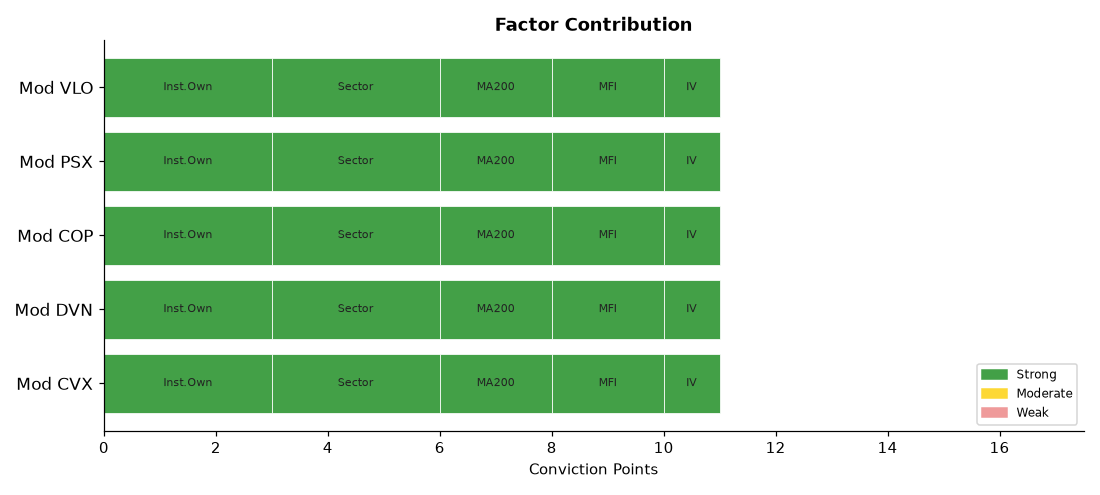
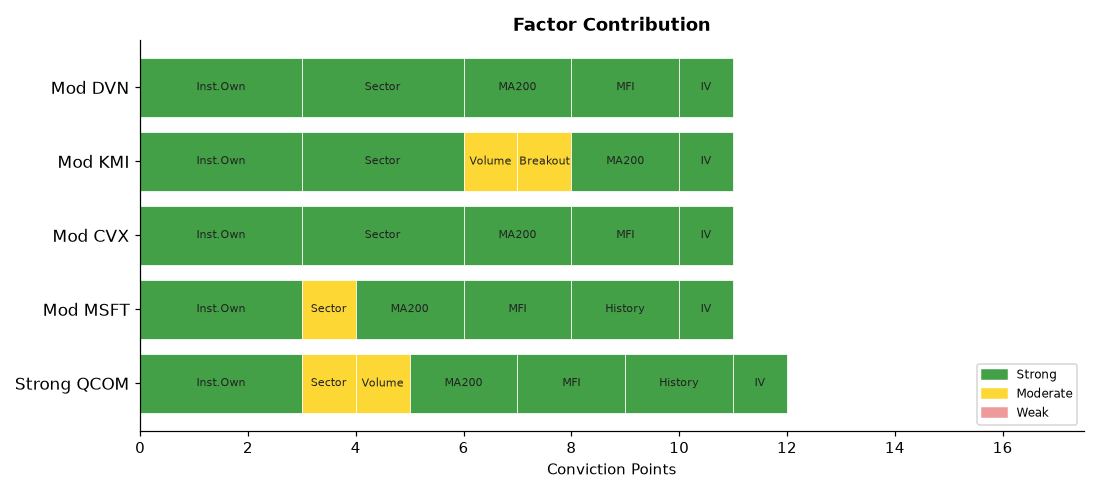
deploy: b7fadf5b06deb90e7ebb92f278722414bdd9750d

diff --git a/index.html b/index.html
@@ -4,7 +4,7 @@
   <meta charset="UTF-8">
   <meta name="viewport" content="width=device-width,initial-scale=1">
   <meta http-equiv="Cache-Control" content="no-cache,no-store,must-revalidate">
-  <title>Stock Breakout Screener — 2026-09-08 19:48</title>
+  <title>Stock Breakout Screener — 2026-09-08 21:31</title>
   <style>
     *{box-sizing:border-box;margin:0;padding:0}
     body{font-family:'Segoe UI',Arial,sans-serif;background:#f0f2f5;
@@ -34,20 +34,20 @@
 
 <div class="hdr">
   <h1>📈 Stock Breakout Screener</h1>
-  <p>Updated: 2026-09-08 19:48 UTC &nbsp;·&nbsp; Phase: Regular Market Hours &nbsp;·&nbsp;
+  <p>Updated: 2026-09-08 21:31 UTC &nbsp;·&nbsp; Phase: After-Hours (4:00–8:00 PM ET) &nbsp;·&nbsp;
      129 stocks screened &nbsp;·&nbsp; Top 5 by conviction score</p>
 </div>
 
 <div class="card">
   <strong style="font-size:14px">Market Sentiment: 🐻 Bearish</strong>
   <div class="bar-wrap" style="margin-top:10px">
-    <div style="width:0%;background:#43a047"></div>
-    <div style="width:8%;background:#fdd835"></div>
+    <div style="width:1%;background:#43a047"></div>
+    <div style="width:7%;background:#fdd835"></div>
     <div style="width:92%;background:#e53935"></div>
   </div>
   <div style="font-size:12px;color:#555">
-    🟢 Strong 0% &nbsp;
-    🟡 Moderate 8% &nbsp;
+    🟢 Strong 1% &nbsp;
+    🟡 Moderate 7% &nbsp;
     🔴 Weak 92%
   </div>
 </div>
@@ -59,17 +59,17 @@
                     box-shadow:0 2px 6px rgba(0,0,0,.07)">
           <div style="display:flex;align-items:center;gap:10px;
                       flex-wrap:wrap;margin-bottom:10px">
-            <span style="font-size:22px">🟡</span>
-            <span style="font-size:19px;font-weight:700">1. CVX</span>
-            <span style="font-size:12px;color:#666">Energy</span>
+            <span style="font-size:22px">🟢</span>
+            <span style="font-size:19px;font-weight:700">1. QCOM</span>
+            <span style="font-size:12px;color:#666">Technology</span>
             <span style="margin-left:auto;background:#1a237e;color:#fff;
                          padding:3px 12px;border-radius:12px;
                          font-size:13px;font-weight:600">
-              11/17
+              12/17
             </span>
           </div>
           <ul style="margin:0;padding-left:18px;font-size:13px;
-                     color:#333;line-height:1.8"><li style="margin:5px 0"><span style="background:#ffebee;color:#b71c1c;padding:2px 7px;border-radius:4px;font-size:11px;">❌</span> Volume: <b>0.5× average</b> — Above-average activity</li><li style="margin:5px 0"><span style="background:#ffebee;color:#b71c1c;padding:2px 7px;border-radius:4px;font-size:11px;">❌</span> Candle: close <b>$210.72</b> vs open <b>$211.25</b> (-0.3%) — regular market close</li><li style="margin:5px 0"><span style="background:#e8f5e9;color:#2e7d32;padding:2px 7px;border-radius:4px;font-size:11px;">✅</span> 200-Day MA: price <b>$210.72</b> vs MA <b>$188.53</b> — <b>✅ Above</b> long-term trend</li><li style="margin:5px 0"><span style="background:#e8f5e9;color:#2e7d32;padding:2px 7px;border-radius:4px;font-size:11px;">✅</span> Inst. ownership: <b>71.2%</b> · MFI: <b>60.4</b> · Market cap: <b>$413.4B</b></li></ul>
+                     color:#333;line-height:1.8"><li style="margin:5px 0"><span style="background:#fffde7;color:#f57f17;padding:2px 7px;border-radius:4px;font-size:11px;">⚠</span> Volume: <b>1.5× average</b> — Above-average activity</li><li style="margin:5px 0"><span style="background:#ffebee;color:#b71c1c;padding:2px 7px;border-radius:4px;font-size:11px;">❌</span> Candle: close <b>$174.09</b> vs open <b>$180.32</b> (-3.5%) — regular market close</li><li style="margin:5px 0"><span style="background:#e8f5e9;color:#2e7d32;padding:2px 7px;border-radius:4px;font-size:11px;">✅</span> 200-Day MA: price <b>$174.09</b> vs MA <b>$171.18</b> — <b>✅ Above</b> long-term trend</li><li style="margin:5px 0"><span style="background:#e8f5e9;color:#2e7d32;padding:2px 7px;border-radius:4px;font-size:11px;">✅</span> Inst. ownership: <b>83.2%</b> · MFI: <b>71.5</b> · Market cap: <b>$185.9B</b></li><li style="margin:5px 0"><span style="background:#e8f5e9;color:#2e7d32;padding:2px 7px;border-radius:4px;font-size:11px;">✅</span> Last similar breakout: <b>May 07, 2026</b> → <b>+5.4%</b> over 10 trading days</li></ul>
         </div>
         <div style="background:#fff;border:1px solid #ddd;border-radius:10px;
                     padding:16px 20px;margin-bottom:12px;
@@ -77,8 +77,8 @@
           <div style="display:flex;align-items:center;gap:10px;
                       flex-wrap:wrap;margin-bottom:10px">
             <span style="font-size:22px">🟡</span>
-            <span style="font-size:19px;font-weight:700">2. DVN</span>
-            <span style="font-size:12px;color:#666">Energy</span>
+            <span style="font-size:19px;font-weight:700">2. MSFT</span>
+            <span style="font-size:12px;color:#666">Technology</span>
             <span style="margin-left:auto;background:#1a237e;color:#fff;
                          padding:3px 12px;border-radius:12px;
                          font-size:13px;font-weight:600">
@@ -86,7 +86,7 @@
             </span>
           </div>
           <ul style="margin:0;padding-left:18px;font-size:13px;
-                     color:#333;line-height:1.8"><li style="margin:5px 0"><span style="background:#ffebee;color:#b71c1c;padding:2px 7px;border-radius:4px;font-size:11px;">❌</span> Volume: <b>0.4× average</b> — Above-average activity</li><li style="margin:5px 0"><span style="background:#ffebee;color:#b71c1c;padding:2px 7px;border-radius:4px;font-size:11px;">❌</span> Candle: close <b>$48.60</b> vs open <b>$48.65</b> (-0.1%) — regular market close</li><li style="margin:5px 0"><span style="background:#e8f5e9;color:#2e7d32;padding:2px 7px;border-radius:4px;font-size:11px;">✅</span> 200-Day MA: price <b>$48.60</b> vs MA <b>$45.94</b> — <b>✅ Above</b> long-term trend</li><li style="margin:5px 0"><span style="background:#e8f5e9;color:#2e7d32;padding:2px 7px;border-radius:4px;font-size:11px;">✅</span> Inst. ownership: <b>94.7%</b> · MFI: <b>63.1</b> · Market cap: <b>$53.5B</b></li></ul>
+                     color:#333;line-height:1.8"><li style="margin:5px 0"><span style="background:#ffebee;color:#b71c1c;padding:2px 7px;border-radius:4px;font-size:11px;">❌</span> Volume: <b>0.5× average</b> — Above-average activity</li><li style="margin:5px 0"><span style="background:#ffebee;color:#b71c1c;padding:2px 7px;border-radius:4px;font-size:11px;">❌</span> Candle: close <b>$493.95</b> vs open <b>$493.01</b> (+0.2%) — regular market close</li><li style="margin:5px 0"><span style="background:#e8f5e9;color:#2e7d32;padding:2px 7px;border-radius:4px;font-size:11px;">✅</span> 200-Day MA: price <b>$493.95</b> vs MA <b>$418.10</b> — <b>✅ Above</b> long-term trend</li><li style="margin:5px 0"><span style="background:#e8f5e9;color:#2e7d32;padding:2px 7px;border-radius:4px;font-size:11px;">✅</span> Inst. ownership: <b>75.9%</b> · MFI: <b>60.1</b> · Market cap: <b>$3667.8B</b></li><li style="margin:5px 0"><span style="background:#e8f5e9;color:#2e7d32;padding:2px 7px;border-radius:4px;font-size:11px;">✅</span> Last similar breakout: <b>Jul 30, 2026</b> → <b>+10.1%</b> over 10 trading days</li></ul>
         </div>
         <div style="background:#fff;border:1px solid #ddd;border-radius:10px;
                     padding:16px 20px;margin-bottom:12px;
@@ -94,7 +94,7 @@
           <div style="display:flex;align-items:center;gap:10px;
                       flex-wrap:wrap;margin-bottom:10px">
             <span style="font-size:22px">🟡</span>
-            <span style="font-size:19px;font-weight:700">3. COP</span>
+            <span style="font-size:19px;font-weight:700">3. CVX</span>
             <span style="font-size:12px;color:#666">Energy</span>
             <span style="margin-left:auto;background:#1a237e;color:#fff;
                          padding:3px 12px;border-radius:12px;
@@ -103,7 +103,7 @@
             </span>
           </div>
           <ul style="margin:0;padding-left:18px;font-size:13px;
-                     color:#333;line-height:1.8"><li style="margin:5px 0"><span style="background:#ffebee;color:#b71c1c;padding:2px 7px;border-radius:4px;font-size:11px;">❌</span> Volume: <b>0.4× average</b> — Above-average activity</li><li style="margin:5px 0"><span style="background:#ffebee;color:#b71c1c;padding:2px 7px;border-radius:4px;font-size:11px;">❌</span> Candle: close <b>$135.08</b> vs open <b>$136.15</b> (-0.8%) — regular market close</li><li style="margin:5px 0"><span style="background:#e8f5e9;color:#2e7d32;padding:2px 7px;border-radius:4px;font-size:11px;">✅</span> 200-Day MA: price <b>$135.08</b> vs MA <b>$119.52</b> — <b>✅ Above</b> long-term trend</li><li style="margin:5px 0"><span style="background:#e8f5e9;color:#2e7d32;padding:2px 7px;border-radius:4px;font-size:11px;">✅</span> Inst. ownership: <b>87.0%</b> · MFI: <b>61.3</b> · Market cap: <b>$162.3B</b></li></ul>
+                     color:#333;line-height:1.8"><li style="margin:5px 0"><span style="background:#ffebee;color:#b71c1c;padding:2px 7px;border-radius:4px;font-size:11px;">❌</span> Volume: <b>0.8× average</b> — Above-average activity</li><li style="margin:5px 0"><span style="background:#ffebee;color:#b71c1c;padding:2px 7px;border-radius:4px;font-size:11px;">❌</span> Candle: close <b>$209.80</b> vs open <b>$211.25</b> (-0.7%) — regular market close</li><li style="margin:5px 0"><span style="background:#e8f5e9;color:#2e7d32;padding:2px 7px;border-radius:4px;font-size:11px;">✅</span> 200-Day MA: price <b>$209.80</b> vs MA <b>$188.52</b> — <b>✅ Above</b> long-term trend</li><li style="margin:5px 0"><span style="background:#e8f5e9;color:#2e7d32;padding:2px 7px;border-radius:4px;font-size:11px;">✅</span> Inst. ownership: <b>71.2%</b> · MFI: <b>61.4</b> · Market cap: <b>$411.5B</b></li></ul>
         </div>
         <div style="background:#fff;border:1px solid #ddd;border-radius:10px;
                     padding:16px 20px;margin-bottom:12px;
@@ -111,7 +111,7 @@
           <div style="display:flex;align-items:center;gap:10px;
                       flex-wrap:wrap;margin-bottom:10px">
             <span style="font-size:22px">🟡</span>
-            <span style="font-size:19px;font-weight:700">4. PSX</span>
+            <span style="font-size:19px;font-weight:700">4. KMI</span>
             <span style="font-size:12px;color:#666">Energy</span>
             <span style="margin-left:auto;background:#1a237e;color:#fff;
                          padding:3px 12px;border-radius:12px;
@@ -120,7 +120,7 @@
             </span>
           </div>
           <ul style="margin:0;padding-left:18px;font-size:13px;
-                     color:#333;line-height:1.8"><li style="margin:5px 0"><span style="background:#ffebee;color:#b71c1c;padding:2px 7px;border-radius:4px;font-size:11px;">❌</span> Volume: <b>0.5× average</b> — Above-average activity</li><li style="margin:5px 0"><span style="background:#ffebee;color:#b71c1c;padding:2px 7px;border-radius:4px;font-size:11px;">❌</span> Candle: close <b>$260.00</b> vs open <b>$260.00</b> (+0.0%) — regular market close</li><li style="margin:5px 0"><span style="background:#e8f5e9;color:#2e7d32;padding:2px 7px;border-radius:4px;font-size:11px;">✅</span> 200-Day MA: price <b>$260.00</b> vs MA <b>$188.67</b> — <b>✅ Above</b> long-term trend</li><li style="margin:5px 0"><span style="background:#e8f5e9;color:#2e7d32;padding:2px 7px;border-radius:4px;font-size:11px;">✅</span> Inst. ownership: <b>80.6%</b> · MFI: <b>79.4</b> · Market cap: <b>$104.3B</b></li></ul>
+                     color:#333;line-height:1.8"><li style="margin:5px 0"><span style="background:#fffde7;color:#f57f17;padding:2px 7px;border-radius:4px;font-size:11px;">⚠</span> Volume: <b>1.6× average</b> — Above-average activity</li><li style="margin:5px 0"><span style="background:#fffde7;color:#f57f17;padding:2px 7px;border-radius:4px;font-size:11px;">⚠</span> Candle: close <b>$31.98</b> vs open <b>$31.44</b> (+1.7%) — regular market close</li><li style="margin:5px 0"><span style="background:#e8f5e9;color:#2e7d32;padding:2px 7px;border-radius:4px;font-size:11px;">✅</span> 200-Day MA: price <b>$31.98</b> vs MA <b>$31.95</b> — <b>✅ Above</b> long-term trend</li><li style="margin:5px 0"><span style="background:#e8f5e9;color:#2e7d32;padding:2px 7px;border-radius:4px;font-size:11px;">✅</span> Inst. ownership: <b>70.9%</b> · MFI: <b>45.0</b> · Market cap: <b>$71.2B</b></li></ul>
         </div>
         <div style="background:#fff;border:1px solid #ddd;border-radius:10px;
                     padding:16px 20px;margin-bottom:12px;
@@ -128,7 +128,7 @@
           <div style="display:flex;align-items:center;gap:10px;
                       flex-wrap:wrap;margin-bottom:10px">
             <span style="font-size:22px">🟡</span>
-            <span style="font-size:19px;font-weight:700">5. VLO</span>
+            <span style="font-size:19px;font-weight:700">5. DVN</span>
             <span style="font-size:12px;color:#666">Energy</span>
             <span style="margin-left:auto;background:#1a237e;color:#fff;
                          padding:3px 12px;border-radius:12px;
@@ -137,7 +137,7 @@
             </span>
           </div>
           <ul style="margin:0;padding-left:18px;font-size:13px;
-                     color:#333;line-height:1.8"><li style="margin:5px 0"><span style="background:#ffebee;color:#b71c1c;padding:2px 7px;border-radius:4px;font-size:11px;">❌</span> Volume: <b>0.7× average</b> — Above-average activity</li><li style="margin:5px 0"><span style="background:#ffebee;color:#b71c1c;padding:2px 7px;border-radius:4px;font-size:11px;">❌</span> Candle: close <b>$383.95</b> vs open <b>$379.18</b> (+1.3%) — regular market close</li><li style="margin:5px 0"><span style="background:#e8f5e9;color:#2e7d32;padding:2px 7px;border-radius:4px;font-size:11px;">✅</span> 200-Day MA: price <b>$383.95</b> vs MA <b>$271.57</b> — <b>✅ Above</b> long-term trend</li><li style="margin:5px 0"><span style="background:#e8f5e9;color:#2e7d32;padding:2px 7px;border-radius:4px;font-size:11px;">✅</span> Inst. ownership: <b>87.1%</b> · MFI: <b>72.4</b> · Market cap: <b>$110.6B</b></li></ul>
+                     color:#333;line-height:1.8"><li style="margin:5px 0"><span style="background:#ffebee;color:#b71c1c;padding:2px 7px;border-radius:4px;font-size:11px;">❌</span> Volume: <b>0.8× average</b> — Above-average activity</li><li style="margin:5px 0"><span style="background:#ffebee;color:#b71c1c;padding:2px 7px;border-radius:4px;font-size:11px;">❌</span> Candle: close <b>$48.40</b> vs open <b>$48.65</b> (-0.5%) — regular market close</li><li style="margin:5px 0"><span style="background:#e8f5e9;color:#2e7d32;padding:2px 7px;border-radius:4px;font-size:11px;">✅</span> 200-Day MA: price <b>$48.40</b> vs MA <b>$45.94</b> — <b>✅ Above</b> long-term trend</li><li style="margin:5px 0"><span style="background:#e8f5e9;color:#2e7d32;padding:2px 7px;border-radius:4px;font-size:11px;">✅</span> Inst. ownership: <b>94.7%</b> · MFI: <b>64.3</b> · Market cap: <b>$53.2B</b></li></ul>
         </div>
 
 
@@ -168,18 +168,72 @@
   
         <tr>
           <td style="font-weight:700;text-align:left;padding-left:10px">
-            🟡 CVX</td>
+            🟢 QCOM</td>
+          <td style="background:#fff9c4">1.5×</td>
+          <td style="background:#ffcdd2">-3.5%</td>
+          <td style="background:#c8e6c9">
+            ▲ Above</td>
+          <td style="background:#c8e6c9">
+            83.2%</td>
+          <td style="background:#c8e6c9">
+            71.5</td>
+          <td style="background:#fff9c4">Technology</td>
+          <td style="background:#c8e6c9">
+            106.8%</td>
+          <td style="background:#c8e6c9">
+            +5.4%</td>
+          <td style="font-weight:800;font-size:15px">12/17</td>
+        </tr>
+        <tr>
+          <td style="font-weight:700;text-align:left;padding-left:10px">
+            🟡 MSFT</td>
           <td style="background:#ffcdd2">0.5×</td>
-          <td style="background:#ffcdd2">-0.3%</td>
+          <td style="background:#ffcdd2">+0.2%</td>
+          <td style="background:#c8e6c9">
+            ▲ Above</td>
+          <td style="background:#c8e6c9">
+            75.9%</td>
+          <td style="background:#c8e6c9">
+            60.1</td>
+          <td style="background:#fff9c4">Technology</td>
+          <td style="background:#c8e6c9">
+            66.0%</td>
+          <td style="background:#c8e6c9">
+            +10.1%</td>
+          <td style="font-weight:800;font-size:15px">11/17</td>
+        </tr>
+        <tr>
+          <td style="font-weight:700;text-align:left;padding-left:10px">
+            🟡 CVX</td>
+          <td style="background:#ffcdd2">0.8×</td>
+          <td style="background:#ffcdd2">-0.7%</td>
           <td style="background:#c8e6c9">
             ▲ Above</td>
           <td style="background:#c8e6c9">
             71.2%</td>
           <td style="background:#c8e6c9">
-            60.4</td>
+            61.4</td>
           <td style="background:#c8e6c9">Energy</td>
           <td style="background:#c8e6c9">
-            67.9%</td>
+            72.0%</td>
+          <td style="background:#ffcdd2">
+            N/A</td>
+          <td style="font-weight:800;font-size:15px">11/17</td>
+        </tr>
+        <tr>
+          <td style="font-weight:700;text-align:left;padding-left:10px">
+            🟡 KMI</td>
+          <td style="background:#fff9c4">1.6×</td>
+          <td style="background:#fff9c4">+1.7%</td>
+          <td style="background:#c8e6c9">
+            ▲ Above</td>
+          <td style="background:#c8e6c9">
+            70.9%</td>
+          <td style="background:#ffcdd2">
+            45.0</td>
+          <td style="background:#c8e6c9">Energy</td>
+          <td style="background:#c8e6c9">
+            59.4%</td>
           <td style="background:#ffcdd2">
             N/A</td>
           <td style="font-weight:800;font-size:15px">11/17</td>
@@ -187,71 +241,17 @@
         <tr>
           <td style="font-weight:700;text-align:left;padding-left:10px">
             🟡 DVN</td>
-          <td style="background:#ffcdd2">0.4×</td>
-          <td style="background:#ffcdd2">-0.1%</td>
+          <td style="background:#ffcdd2">0.8×</td>
+          <td style="background:#ffcdd2">-0.5%</td>
           <td style="background:#c8e6c9">
             ▲ Above</td>
           <td style="background:#c8e6c9">
             94.7%</td>
           <td style="background:#c8e6c9">
-            63.1</td>
+            64.3</td>
           <td style="background:#c8e6c9">Energy</td>
           <td style="background:#c8e6c9">
-            79.3%</td>
-          <td style="background:#ffcdd2">
-            N/A</td>
-          <td style="font-weight:800;font-size:15px">11/17</td>
-        </tr>
-        <tr>
-          <td style="font-weight:700;text-align:left;padding-left:10px">
-            🟡 COP</td>
-          <td style="background:#ffcdd2">0.4×</td>
-          <td style="background:#ffcdd2">-0.8%</td>
-          <td style="background:#c8e6c9">
-            ▲ Above</td>
-          <td style="background:#c8e6c9">
-            87.0%</td>
-          <td style="background:#c8e6c9">
-            61.3</td>
-          <td style="background:#c8e6c9">Energy</td>
-          <td style="background:#c8e6c9">
-            65.9%</td>
-          <td style="background:#ffcdd2">
-            N/A</td>
-          <td style="font-weight:800;font-size:15px">11/17</td>
-        </tr>
-        <tr>
-          <td style="font-weight:700;text-align:left;padding-left:10px">
-            🟡 PSX</td>
-          <td style="background:#ffcdd2">0.5×</td>
-          <td style="background:#ffcdd2">+0.0%</td>
-          <td style="background:#c8e6c9">
-            ▲ Above</td>
-          <td style="background:#c8e6c9">
-            80.6%</td>
-          <td style="background:#c8e6c9">
-            79.4</td>
-          <td style="background:#c8e6c9">Energy</td>
-          <td style="background:#c8e6c9">
-            79.8%</td>
-          <td style="background:#ffcdd2">
-            N/A</td>
-          <td style="font-weight:800;font-size:15px">11/17</td>
-        </tr>
-        <tr>
-          <td style="font-weight:700;text-align:left;padding-left:10px">
-            🟡 VLO</td>
-          <td style="background:#ffcdd2">0.7×</td>
-          <td style="background:#ffcdd2">+1.3%</td>
-          <td style="background:#c8e6c9">
-            ▲ Above</td>
-          <td style="background:#c8e6c9">
-            87.1%</td>
-          <td style="background:#c8e6c9">
-            72.4</td>
-          <td style="background:#c8e6c9">Energy</td>
-          <td style="background:#c8e6c9">
-            81.2%</td>
+            70.0%</td>
           <td style="background:#ffcdd2">
             N/A</td>
           <td style="font-weight:800;font-size:15px">11/17</td>
@@ -278,57 +278,57 @@
         <tr>
           <td style="text-align:left;padding-left:10px;font-weight:600">
             #1 Energy</td>
-          <td style="background:#e8f5e9;color:#2e7d32;font-weight:700">+1.33%</td>
+          <td style="background:#e8f5e9;color:#2e7d32;font-weight:700">+1.11%</td>
         </tr>
         <tr>
           <td style="text-align:left;padding-left:10px;font-weight:600">
             #2 Utilities</td>
-          <td style="background:#e8f5e9;color:#2e7d32;font-weight:700">+1.10%</td>
+          <td style="background:#e8f5e9;color:#2e7d32;font-weight:700">+0.86%</td>
         </tr>
         <tr>
           <td style="text-align:left;padding-left:10px;font-weight:600">
-            #3 Real Estate</td>
-          <td style="background:#e8f5e9;color:#2e7d32;font-weight:700">+0.22%</td>
+            #3 Technology</td>
+          <td style="background:#e8f5e9;color:#2e7d32;font-weight:700">+0.32%</td>
         </tr>
         <tr>
           <td style="text-align:left;padding-left:10px;font-weight:600">
-            #4 Technology</td>
-          <td style="background:#e8f5e9;color:#2e7d32;font-weight:700">+0.21%</td>
+            #4 Real Estate</td>
+          <td style="background:#ffebee;color:#c62828;font-weight:700">-0.07%</td>
         </tr>
         <tr>
           <td style="text-align:left;padding-left:10px;font-weight:600">
-            #5 Industrials</td>
-          <td style="background:#ffebee;color:#c62828;font-weight:700">-0.25%</td>
+            #5 Comm. Services</td>
+          <td style="background:#ffebee;color:#c62828;font-weight:700">-0.46%</td>
         </tr>
         <tr>
           <td style="text-align:left;padding-left:10px;font-weight:600">
-            #6 Comm. Services</td>
-          <td style="background:#ffebee;color:#c62828;font-weight:700">-0.32%</td>
+            #6 Industrials</td>
+          <td style="background:#ffebee;color:#c62828;font-weight:700">-0.48%</td>
         </tr>
         <tr>
           <td style="text-align:left;padding-left:10px;font-weight:600">
             #7 Consumer Stpl</td>
-          <td style="background:#ffebee;color:#c62828;font-weight:700">-0.52%</td>
+          <td style="background:#ffebee;color:#c62828;font-weight:700">-0.66%</td>
         </tr>
         <tr>
           <td style="text-align:left;padding-left:10px;font-weight:600">
-            #8 Materials</td>
-          <td style="background:#ffebee;color:#c62828;font-weight:700">-0.57%</td>
+            #8 Consumer Disc</td>
+          <td style="background:#ffebee;color:#c62828;font-weight:700">-0.80%</td>
         </tr>
         <tr>
           <td style="text-align:left;padding-left:10px;font-weight:600">
-            #9 Consumer Disc</td>
-          <td style="background:#ffebee;color:#c62828;font-weight:700">-0.72%</td>
+            #9 Materials</td>
+          <td style="background:#ffebee;color:#c62828;font-weight:700">-0.95%</td>
         </tr>
         <tr>
           <td style="text-align:left;padding-left:10px;font-weight:600">
             #10 Financials</td>
-          <td style="background:#ffebee;color:#c62828;font-weight:700">-1.16%</td>
+          <td style="background:#ffebee;color:#c62828;font-weight:700">-1.38%</td>
         </tr>
         <tr>
           <td style="text-align:left;padding-left:10px;font-weight:600">
             #11 Healthcare</td>
-          <td style="background:#ffebee;color:#c62828;font-weight:700">-2.34%</td>
+          <td style="background:#ffebee;color:#c62828;font-weight:700">-2.52%</td>
         </tr>
     </table>
   </div>
@@ -367,7 +367,7 @@
         <li><b>Scoring weights:</b>
             Inst.Own(3) · Sector(3) · Volume(2) · Breakout(2) ·
             MA200(2) · MFI(2) · History(2) · IV(1) = 17pts max</li>
-        <li><b>Run time:</b> 2026-09-08 19:48 UTC — Market phase: Regular Market Hours</li>
+        <li><b>Run time:</b> 2026-09-08 21:31 UTC — Market phase: After-Hours (4:00–8:00 PM ET)</li>
       </ul>
     </div>
 
